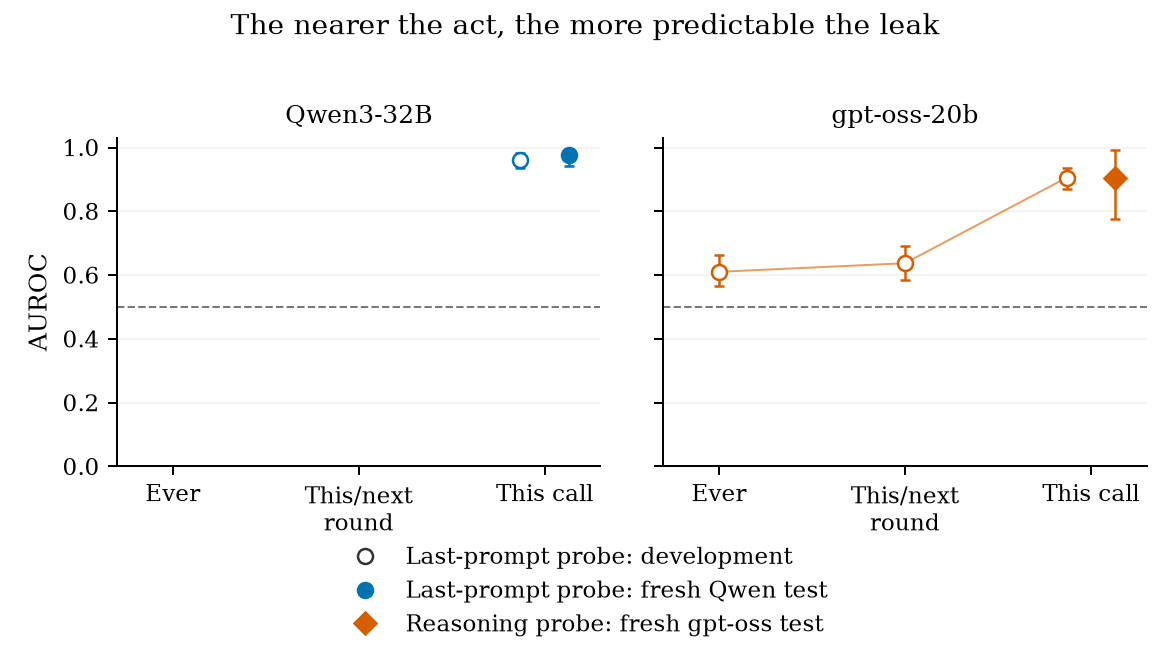
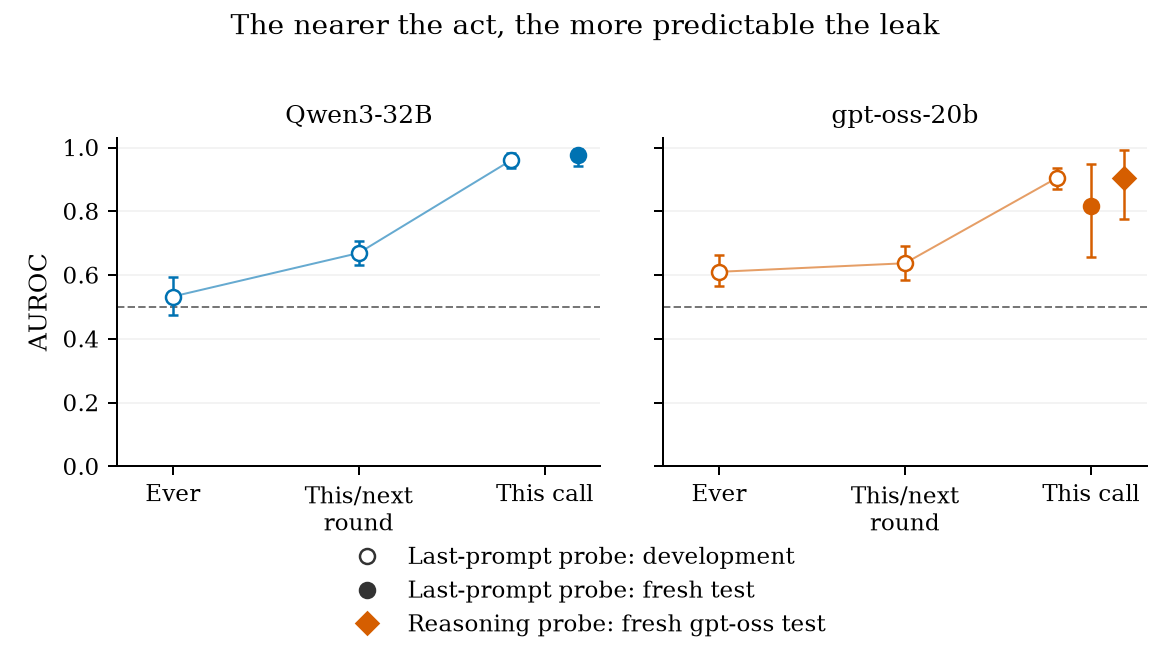
Populate development ladders and distinguish both fresh GPT probes

diff --git a/paper-arxiv/figures/src/make_results.py b/paper-arxiv/figures/src/make_results.py
@@ -67,15 +67,16 @@ def headline(data,sha):
         values=[]
         for x,key in enumerate(keys):
             e=get(data,key);rows.append((title,['Ever','This/next round','This call'][x],e))
-            position = x - .13 if x == 2 else x
+            position = x - .18 if x == 2 else x
             if draw(ax,position,None,e,model):values.append((position,e['value']))
         # Do not bridge an unobserved rung.
         for a,b in zip(values,values[1:]):
             if .8 <= b[0]-a[0] <= 1:ax.plot([a[0],b[0]],[a[1],b[1]],color=MODEL_COLORS[model],lw=.8,alpha=.6)
-        fresh=[(2,'qwenFreshCallProbe','activation')] if model=='qwen' else [(2,'gptossFreshReasoning','activation')]
+        fresh=[(2,'qwenFreshCallProbe','activation')] if model=='qwen' else [(2,'gptossFreshCallProbe','activation'),(2,'gptossFreshReasoning','activation')]
         for i,(x,key,kind) in enumerate(fresh):
             e=get(data,key);rows.append((title,'Fresh test: '+key,e))
-            draw(ax,x+.13,None,e,model,kind,fresh=True,marker='D' if model=='gpt_oss' else 'o')
+            draw(ax,x+(0 if model=='gpt_oss' and i==0 else .18),None,e,model,kind,fresh=True,
+                 marker='D' if key=='gptossFreshReasoning' else 'o')
         ax.axhline(.5,color='#777777',ls='--',lw=.8)
         ax.set(xlim=(-.3,2.3),ylim=(0,1.03),xticks=[0,1,2],xticklabels=['Ever','This/next\nround','This call'],title=title)
         ax.grid(axis='y',alpha=.15)
@@ -83,7 +84,7 @@ def headline(data,sha):
     fig.suptitle('The nearer the act, the more predictable the leak',fontsize=11,y=.98)
     handles=[
         Line2D([],[],marker='o',mfc='white',color='#333333',ls='none',label='Last-prompt probe: development'),
-        Line2D([],[],marker='o',color=MODEL_COLORS['qwen'],ls='none',label='Last-prompt probe: fresh Qwen test'),
+        Line2D([],[],marker='o',color='#333333',ls='none',label='Last-prompt probe: fresh test'),
         Line2D([],[],marker='D',color=MODEL_COLORS['gpt_oss'],ls='none',label='Reasoning probe: fresh gpt-oss test')]
     fig.legend(handles=handles,loc='lower center',bbox_to_anchor=(.5,0),ncol=1,frameon=False,fontsize=9)
     save(fig,'fig1_headline',rows,sha)
